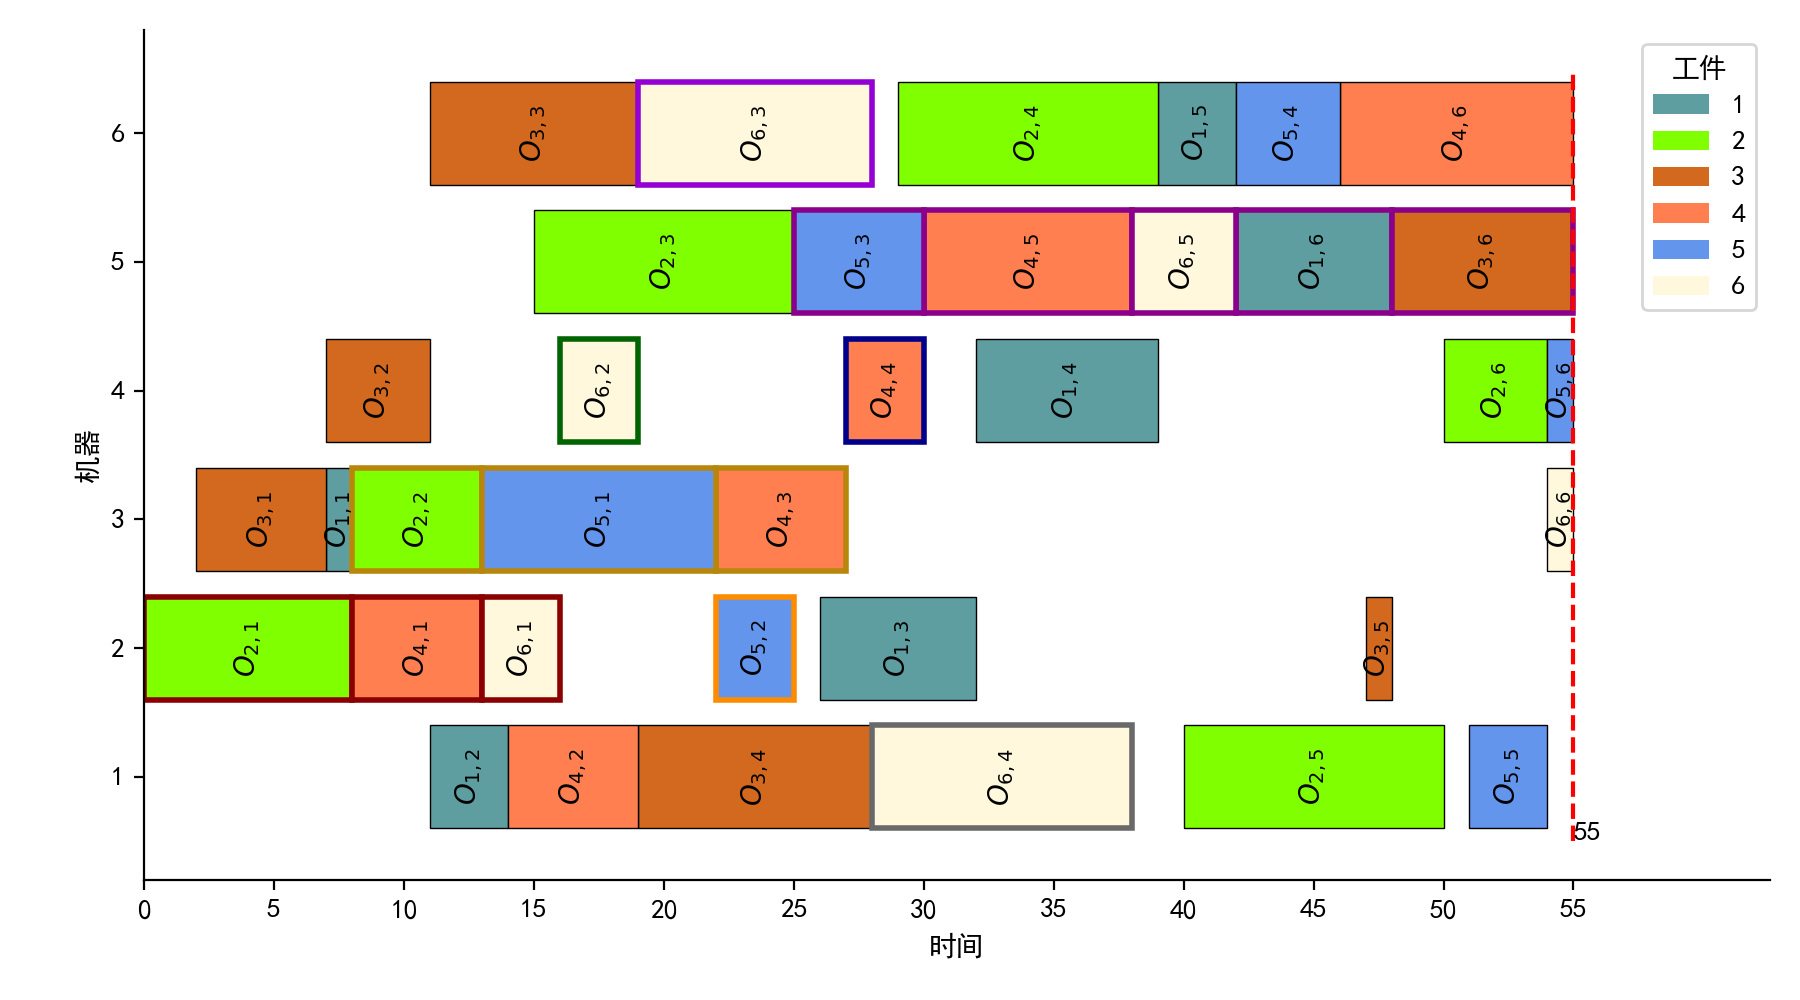
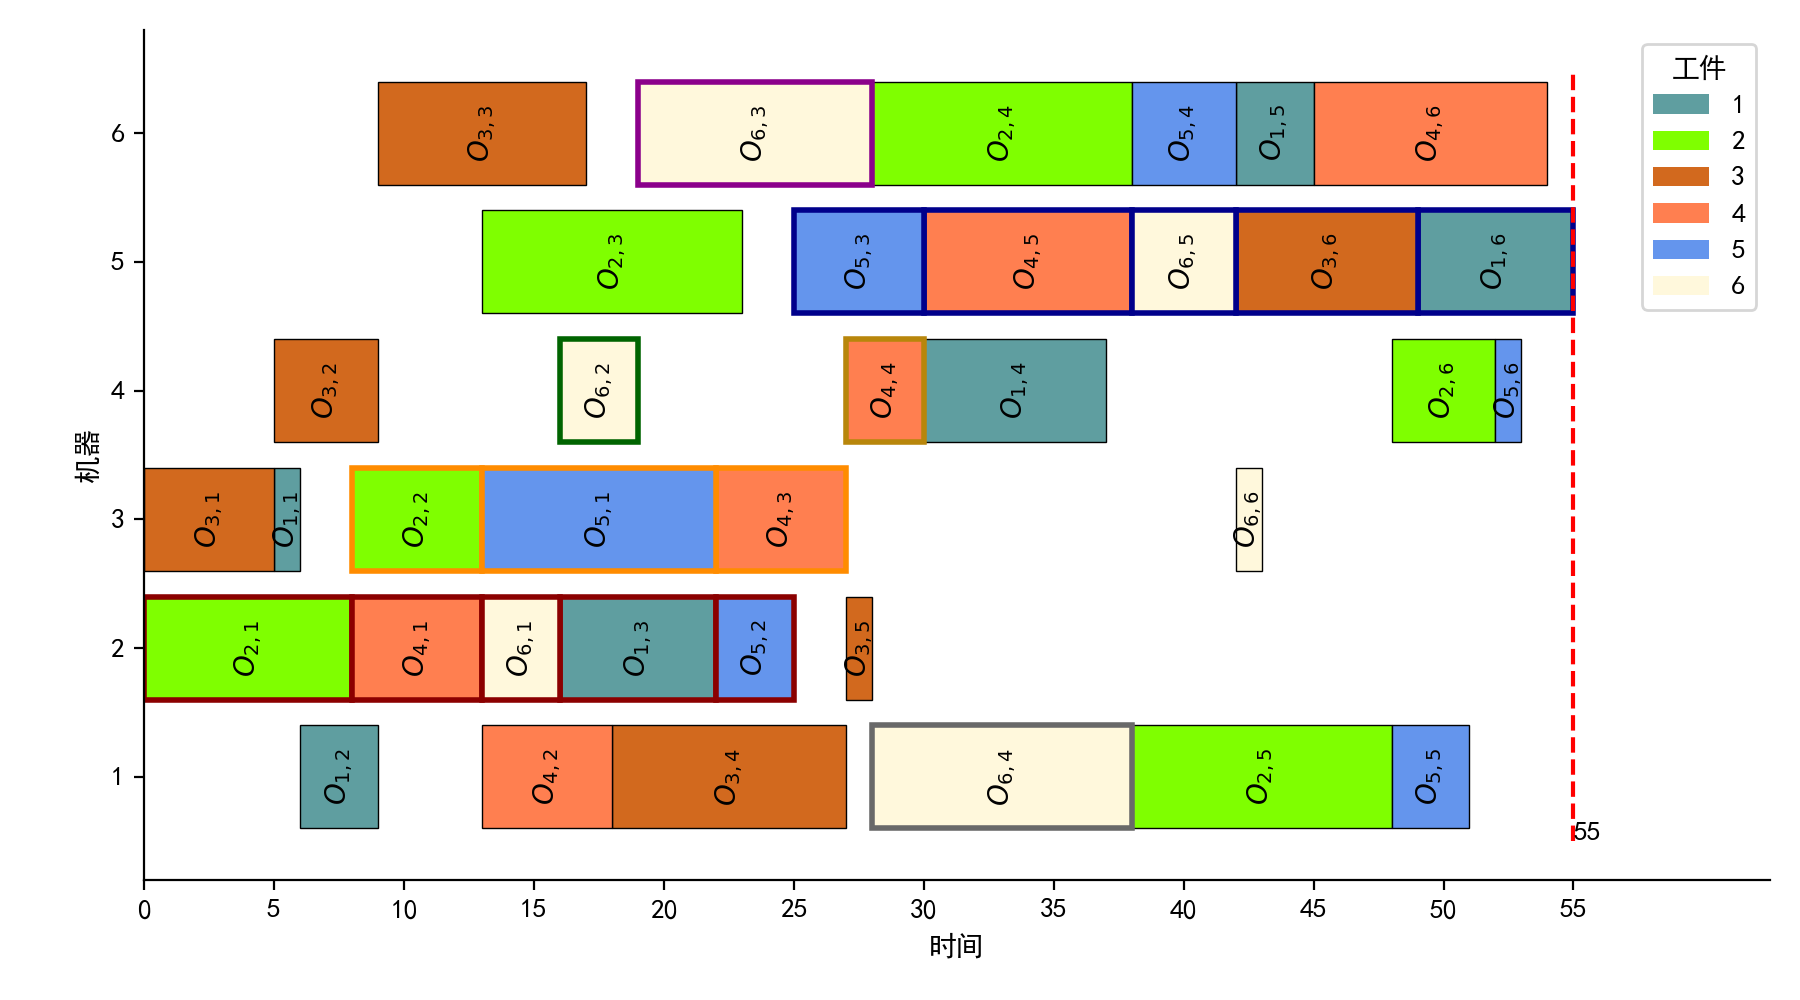
Add file via upload.

diff --git a/src/info.py b/src/info.py
@@ -422,6 +422,14 @@ class Info(GanttChart):
         code1[b], code2[c] = code2[c], code1[b]
         return code1, code2
 
+    def ga_crossover_sequence_mox(self, info):
+        code1 = deepcopy(self.code)
+        code2 = deepcopy(info.code)
+        a = np.random.choice(range(self.schedule.m), 1, replace=False)[0]
+        b, c = self.schedule.machine[a].index_list, info.schedule.machine[a].index_list
+        code1[b], code2[c] = code2[c], code1[b]
+        return code1, code2
+
     def ga_crossover_sequence_ipox(self, info):
         code1 = deepcopy(self.code)
         code2 = deepcopy(info.code)
@@ -537,10 +545,21 @@ class Info(GanttChart):
         code = deepcopy(self.code)
         length = self.schedule.length if length is None else length
         while True:
-            a = np.random.choice(range(length), 2, replace=False)
-            if code[a[0]] != code[a[1]]:
-                code[a] = code[a[::-1]]
-                break
+            if length == self.schedule.length:
+                try:
+                    a = np.random.randint(0, self.schedule.m, 1)[0]
+                    b = self.schedule.machine[a].index_list
+                    c = np.random.choice(b, 2, replace=False)
+                    if code[c[0]] != code[c[1]]:
+                        code[c] = code[c[::-1]]
+                        break
+                except ValueError:
+                    pass
+            else:
+                a = np.random.choice(range(length), 2, replace=False)
+                if code[a[0]] != code[a[1]]:
+                    code[a] = code[a[::-1]]
+                    break
         return code
 
     def ga_mutation_sequence_insert(self, length=None):

diff --git a/test_ga_jsp.py b/test_ga_jsp.py
@@ -9,7 +9,7 @@ def main(instance="example"):
     problem = Utils.create_schedule(Jsp, n, m, p, tech, proc, best_known=best_known, time_unit=time_unit)
     ga = GaJsp(pop_size=20, rc=0.85, rm=0.15, max_generation=int(10e4), objective=Objective.makespan, schedule=problem,
                max_stay_generation=500)
-    ga.do_evolution(tabu_search=True, key_block_move=False)
+    ga.do_evolution(tabu_search=False, key_block_move=False)
     Utils.make_dir("./GA_JSP")
     Utils.make_dir("./GA_JSP/%s" % instance)
     Utils.make_dir("./GA_JSP/%s/GanttChart" % instance)
@@ -18,7 +18,7 @@ def main(instance="example"):
     Utils.save_record_to_csv("./GA_JSP/%s/record.csv" % instance, ga.record)
     ga.best[0].save_code_to_txt("./GA_JSP/%s/code.txt" % instance)
     ga.best[0].save_gantt_chart_to_csv("./GA_JSP/%s/GanttChart.csv" % instance)
-    ga.best[0].gantt_chart_png("./GA_JSP/%s/GanttChart/GanttChart.png" % instance, key_block=True)
+    # ga.best[0].gantt_chart_png("./GA_JSP/%s/GanttChart/GanttChart.png" % instance, key_block=True)
 
 
 if __name__ == '__main__':

diff --git a/test_nsga_jsp.py b/test_nsga_jsp.py
@@ -17,7 +17,7 @@ def run(instance="ft06"):
     problem = Utils.create_schedule(Jsp, n, m, p, tech, proc, due_date=due_date, time_unit=time_unit)
     objective_list = [Objective.tardiness, Objective.makespan]
     nsga = NSGAJsp(pop_size=40, rc=0.85, rm=0.15, max_generation=50, objective=objective_list, schedule=problem)
-    c = nsga.do_evolution(key_block_move=True, pop=None, n_level=5, column=0)
+    c = nsga.do_evolution(key_block_move=False, pop=None, n_level=5, column=0)
     # 输出结果
     Utils.make_dir("./NSGA_JSP")
     Utils.make_dir("./NSGA_JSP/%s" % instance)
@@ -48,7 +48,7 @@ def run(instance="ft06"):
         res = c[0][i][0]
         res.save_code_to_txt("./NSGA_JSP/%s/%s-code.txt" % (instance, i + 1))
         res.save_gantt_chart_to_csv("./NSGA_JSP/%s/%s-GanttChart.csv" % (instance, i + 1))
-        res.gantt_chart_png("./NSGA_JSP/%s/GanttChart/%s-GanttChart.png" % (instance, i + 1), key_block=True)
+        # res.gantt_chart_png("./NSGA_JSP/%s/GanttChart/%s-GanttChart.png" % (instance, i + 1), key_block=True)
 
 
 def main():

diff --git a/test_decode_jsp_lwjsp.py b/test_decode_jsp_lwjsp.py
@@ -35,7 +35,7 @@ def main(instance="example"):
     print(solution.schedule.sjike[2], "# solution.schedule.sjike[2]")
     solution.save_code_to_txt("./Result/Code/%s.txt" % instance)
     solution.save_gantt_chart_to_csv("./Result/GanttChart/%s.csv" % instance)
-    solution.gantt_chart_png("./Result/GanttChart/%s.png" % instance, key_block=True)
+    # solution.gantt_chart_png("./Result/GanttChart/%s.png" % instance, key_block=True)
 
 
 if __name__ == '__main__':

diff --git a/test_decode_mrfjsp.py b/test_decode_mrfjsp.py
@@ -22,7 +22,7 @@ def main(instance="example"):
     print(solution.schedule.sjike[2], "# solution.schedule.sjike[2]")
     solution.save_code_to_txt("./Result/Code/%s.txt" % instance)
     solution.save_gantt_chart_to_csv("./Result/GanttChart/%s.csv" % instance)
-    solution.gantt_chart_png("./Result/GanttChart/%s.png" % instance, key_block=True)
+    # solution.gantt_chart_png("./Result/GanttChart/%s.png" % instance, key_block=True)
 
 
 if __name__ == '__main__':

diff --git a/test_decode_mrjsp.py b/test_decode_mrjsp.py
@@ -17,7 +17,7 @@ def main(instance="example"):
     print(solution.schedule.sjike[2], "# solution.schedule.sjike[2]")
     solution.save_code_to_txt("./Result/Code/%s.txt" % instance)
     solution.save_gantt_chart_to_csv("./Result/GanttChart/%s.csv" % instance)
-    solution.gantt_chart_png("./Result/GanttChart/%s.png" % instance, key_block=True)
+    # solution.gantt_chart_png("./Result/GanttChart/%s.png" % instance, key_block=True)
 
 
 if __name__ == '__main__':

diff --git a/src/algorithm/ga.py b/src/algorithm/ga.py
@@ -200,7 +200,7 @@ class GaJsp(Ga):
         self.show_generation(0)
 
     def do_crossover(self, i, j):
-        code1, code2 = self.pop[0][i].ga_crossover_sequence_pox(self.pop[0][j])
+        code1, code2 = self.pop[0][i].ga_crossover_sequence_mox(self.pop[0][j])
         self.decode_update(i, code1)
         self.decode_update(j, code2)
 
